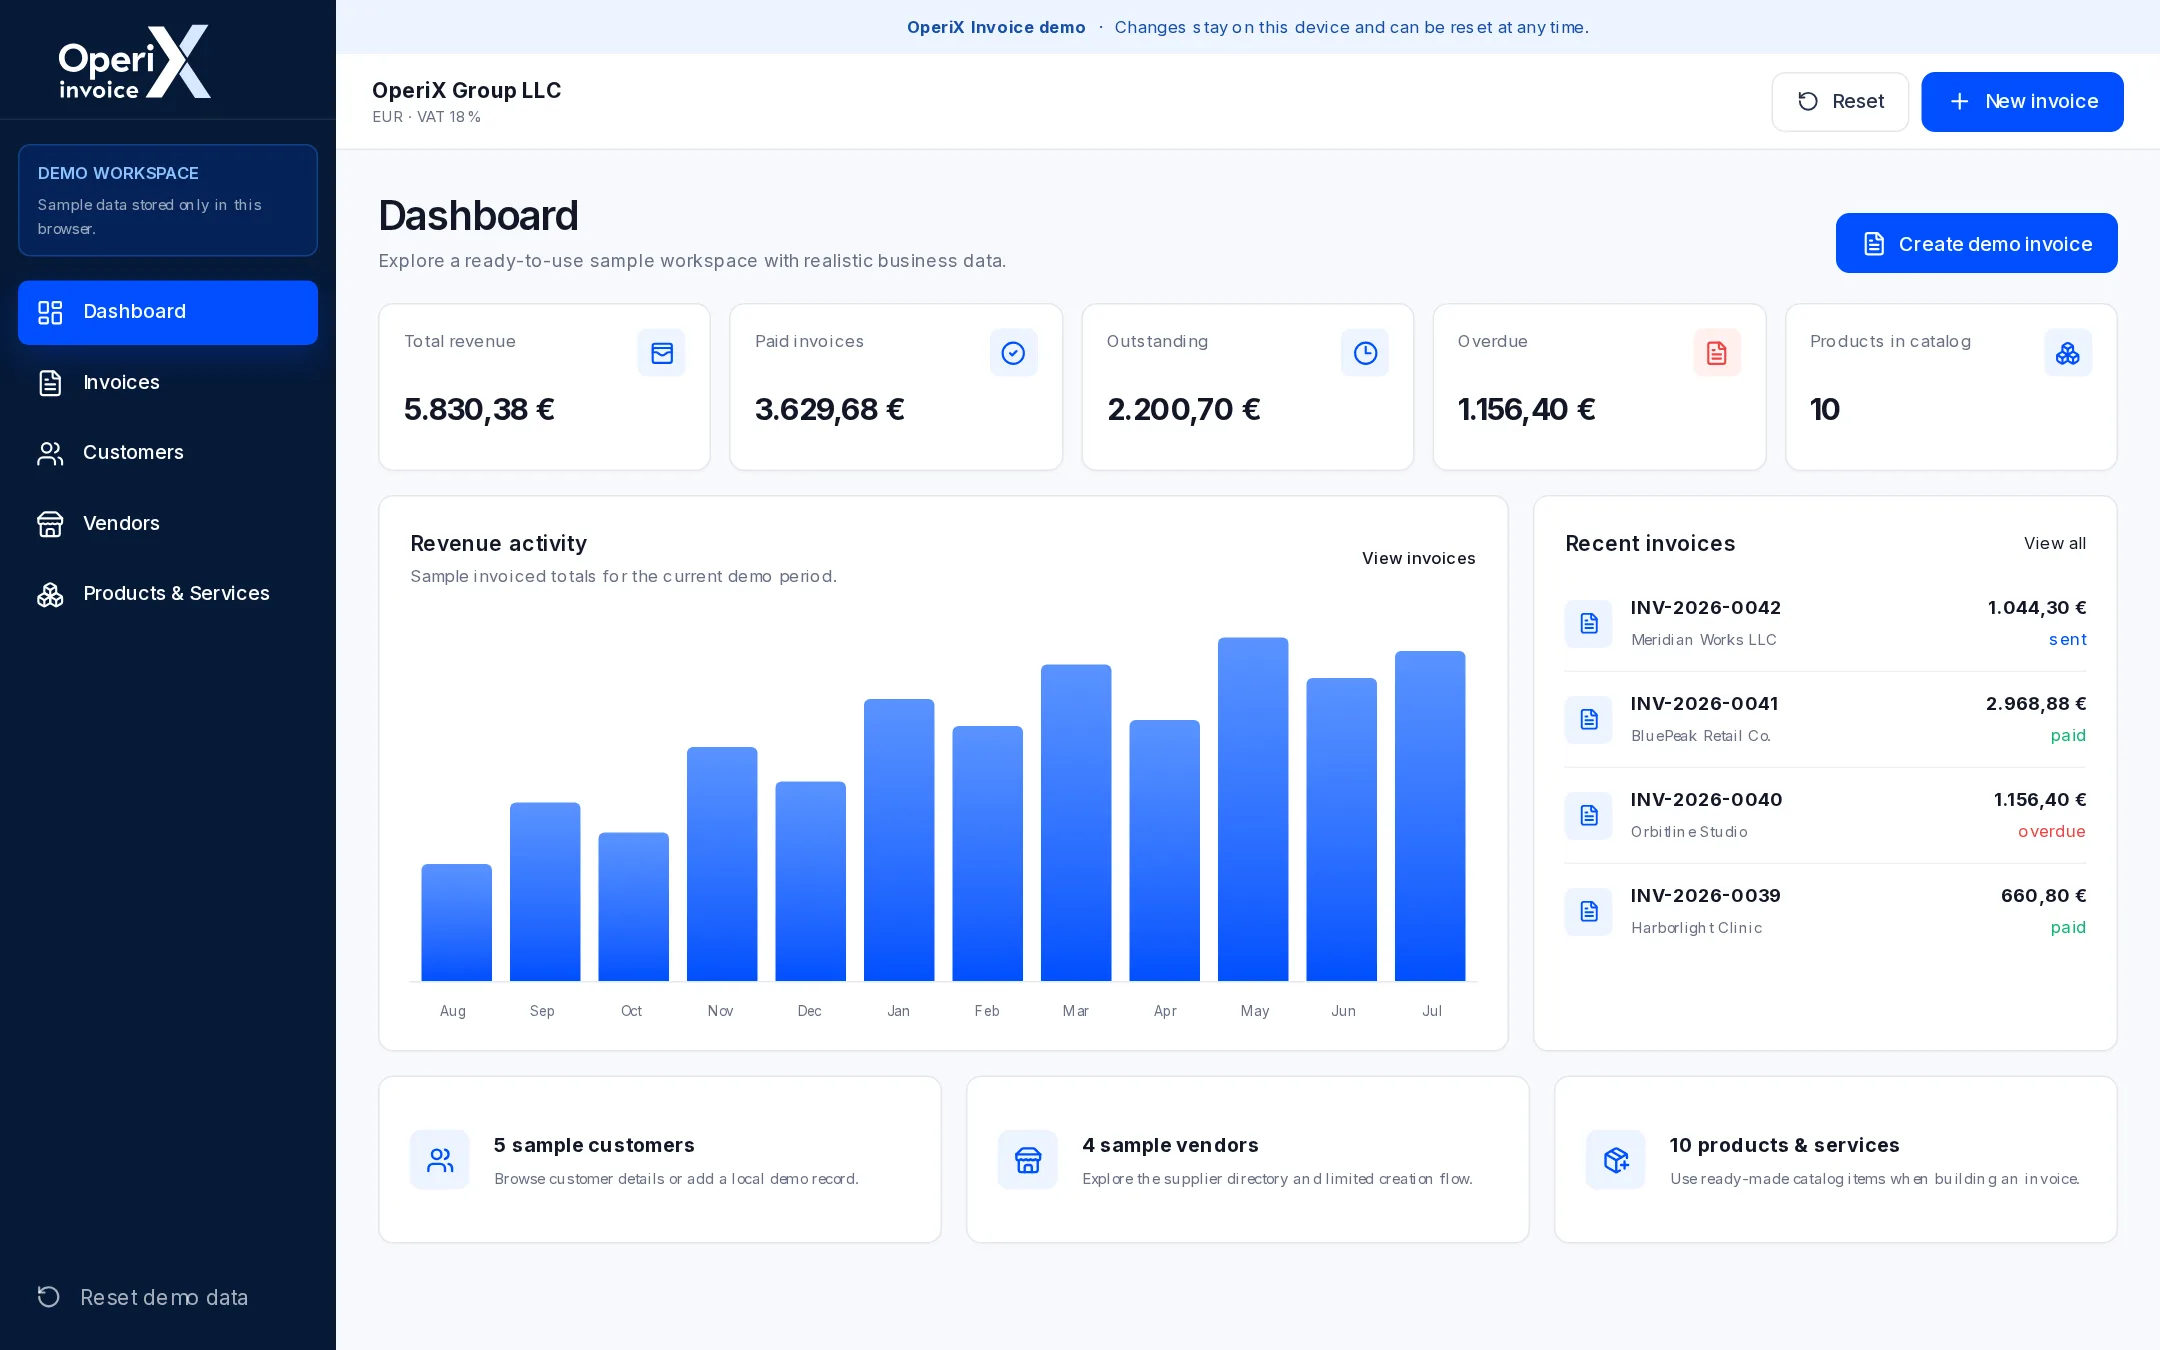
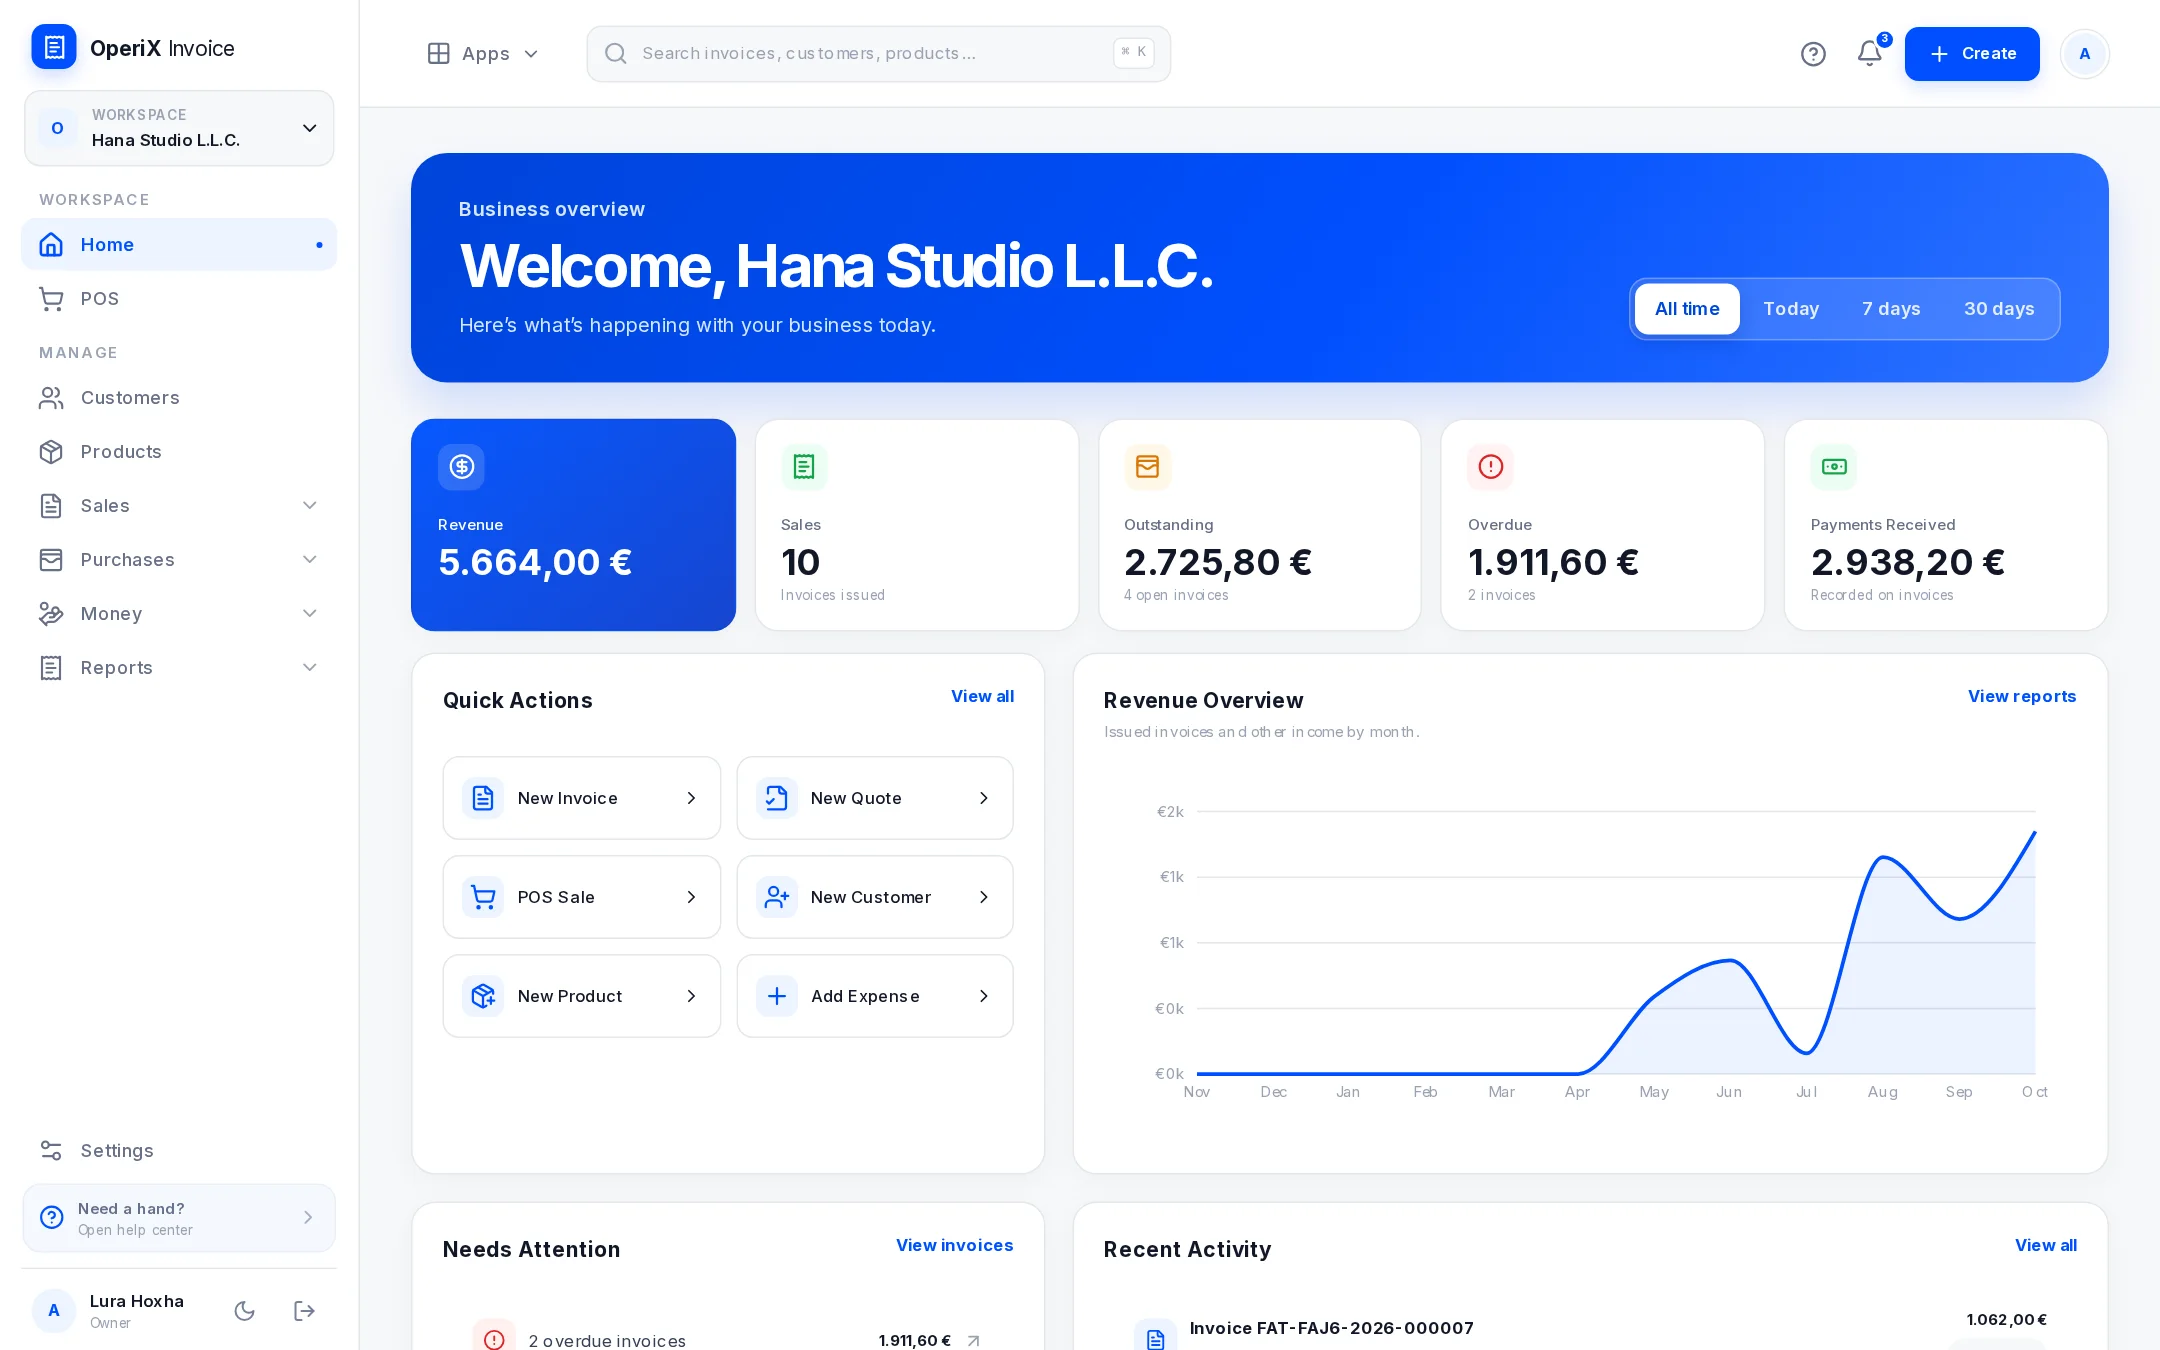
Suite: use screenshots of the production app, remove demo links
- Replace the demo screenshots with the real OperiX Invoice app (dashboard, invoice list, invoice detail)
- Remove the Try the live demo buttons and links now that the demo is retired
- Phone mockup uses the same sample data

Claude-Session: https://claude.ai/code/session_01GPv2KVxTpkWnaNaEobSKLD

diff --git a/apps/OperiX Suite/src/content/copy.ts b/apps/OperiX Suite/src/content/copy.ts
@@ -4,7 +4,6 @@ export const urls = {
   signup: process.env.NEXT_PUBLIC_OPERIX_GET_STARTED_URL ?? "https://invoice.operixsuite.com/signup",
   signIn: process.env.NEXT_PUBLIC_OPERIX_SIGN_IN_URL ?? "https://invoice.operixsuite.com/login",
   app: process.env.NEXT_PUBLIC_OPERIX_INVOICE_URL ?? "https://invoice.operixsuite.com",
-  demo: process.env.NEXT_PUBLIC_OPERIX_INVOICE_DEMO_URL ?? "https://demo.invoice.operixsuite.com",
   help: "https://helpdesk.operixsuite.com",
   email: "support@operixinvoice.com",
 };
@@ -73,7 +72,7 @@ export type Copy = {
     cards: { title: string; text: string; cta: string; href: string }[];
     form: { name: string; email: string; topic: string; topics: string[]; message: string; send: string; note: string; subject: string };
   };
-  footer: { tagline: string; product: string; company: string; legal: string; links: { invoice: string; booking: string; pricing: string; demo: string; help: string; contact: string; privacy: string; terms: string; signIn: string }; rights: string; made: string };
+  footer: { tagline: string; product: string; company: string; legal: string; links: { invoice: string; booking: string; pricing: string; help: string; contact: string; privacy: string; terms: string; signIn: string }; rights: string; made: string };
   legal: { updated: string; privacy: { title: string; sections: { h: string; p: string[] }[] }; terms: { title: string; sections: { h: string; p: string[] }[] }; review: string };
   notFound: { title: string; text: string; cta: string };
   suiteLine: string;
@@ -93,7 +92,7 @@ const en: Copy = {
       accent: "your whole business.",
       sub: "Create invoices, sell at the counter, track expenses and keep VAT and reports in order — in the browser or on your phone. Start free, with your data stored on your own device.",
       primary: "Start free",
-      secondary: "Try the live demo",
+      secondary: "See pricing",
       note: ["No credit card", "Works offline", "English & Shqip", "Euro & Kosovo VAT"],
     },
     products: {
@@ -192,7 +191,7 @@ const en: Copy = {
         { q: "Which languages are supported?", a: "The web app and this website are available in English and Albanian (Shqip). Each invoice can be issued in English, Albanian or Serbian." },
       ],
     },
-    cta: { title: "Ready to put your invoicing in order?", sub: "Start free in a few minutes. Upgrade to the cloud only when you need it.", primary: "Start free", secondary: "Try the live demo" },
+    cta: { title: "Ready to put your invoicing in order?", sub: "Start free in a few minutes. Upgrade to the cloud only when you need it.", primary: "Start free", secondary: "See pricing" },
   },
   invoice: {
     hero: {
@@ -200,7 +199,7 @@ const en: Copy = {
       title: "Everything you need to bill, sell and keep your books.",
       sub: "A complete invoicing and business finance workspace for the web and your phone — built for small and growing businesses.",
       primary: "Start free",
-      secondary: "Try the live demo",
+      secondary: "See pricing",
     },
     groups: [
       { icon: "file", title: "Sales documents", text: "Look professional and stay organised.", items: ["Invoices, quotes, proformas, sales orders and delivery notes", "Convert a quote into an invoice in one click", "Recurring invoices and payment reminders", "Automatic numbering, status tracking and PDF output", "Customer-facing templates with your logo, stamp and signature"] },
@@ -290,14 +289,13 @@ const en: Copy = {
     cards: [
       { title: "Help Center", text: "Guides and answers for getting set up and using OperiX.", cta: "Open the Help Center", href: urls.help },
       { title: "Email us", text: "Write to us about pricing, setup or anything else.", cta: urls.email, href: `mailto:${urls.email}` },
-      { title: "Try the demo", text: "Explore OperiX Invoice with sample data. No sign-up needed.", cta: "Open the demo", href: urls.demo },
     ],
     form: { name: "Your name", email: "Your email", topic: "Topic", topics: ["OperiX Invoice", "Pricing", "OperiX Booking", "Something else"], message: "How can we help?", send: "Send by email", note: "This opens your email app with your message ready to send.", subject: "OperiX enquiry" },
   },
   footer: {
     tagline: "Invoicing and business finance for growing businesses.",
     product: "Product", company: "Company", legal: "Legal",
-    links: { invoice: "OperiX Invoice", booking: "OperiX Booking", pricing: "Pricing", demo: "Live demo", help: "Help Center", contact: "Contact", privacy: "Privacy", terms: "Terms", signIn: "Sign in" },
+    links: { invoice: "OperiX Invoice", booking: "OperiX Booking", pricing: "Pricing", help: "Help Center", contact: "Contact", privacy: "Privacy", terms: "Terms", signIn: "Sign in" },
     rights: "All rights reserved.", made: "Made in Kosovo",
   },
   legal: {
@@ -345,7 +343,7 @@ const sq: Copy = {
       accent: "gjithë biznesin tuaj.",
       sub: "Krijoni fatura, shitni në banak, ndiqni shpenzimet dhe mbani TVSH-në e raportet në rregull — në shfletues ose në telefon. Filloni falas, me të dhënat e ruajtura në pajisjen tuaj.",
       primary: "Filloni falas",
-      secondary: "Provoni demon",
+      secondary: "Shihni çmimet",
       note: ["Pa kartë krediti", "Punon pa internet", "Shqip dhe anglisht", "Euro dhe TVSH e Kosovës"],
     },
     products: {
@@ -444,7 +442,7 @@ const sq: Copy = {
         { q: "Cilat gjuhë mbështeten?", a: "Aplikacioni web dhe kjo faqe janë në shqip dhe anglisht. Çdo faturë mund të lëshohet në shqip, anglisht ose serbisht." },
       ],
     },
-    cta: { title: "Gati ta rregulloni faturimin?", sub: "Filloni falas për disa minuta. Kaloni në cloud vetëm kur ju duhet.", primary: "Filloni falas", secondary: "Provoni demon" },
+    cta: { title: "Gati ta rregulloni faturimin?", sub: "Filloni falas për disa minuta. Kaloni në cloud vetëm kur ju duhet.", primary: "Filloni falas", secondary: "Shihni çmimet" },
   },
   invoice: {
     hero: {
@@ -452,7 +450,7 @@ const sq: Copy = {
       title: "Gjithçka që ju duhet për të faturuar, shitur dhe mbajtur librat.",
       sub: "Hapësirë e plotë pune për faturim dhe financa të biznesit, për web dhe telefon — e krijuar për biznese të vogla dhe në rritje.",
       primary: "Filloni falas",
-      secondary: "Provoni demon",
+      secondary: "Shihni çmimet",
     },
     groups: [
       { icon: "file", title: "Dokumente shitjeje", text: "Dukuni profesionalë dhe qëndroni të organizuar.", items: ["Fatura, oferta, proformë, porosi shitjeje dhe fletëdërgesa", "Shndërroni një ofertë në faturë me një klik", "Fatura periodike dhe kujtesa pagese", "Numërim automatik, ndjekje statusi dhe PDF", "Shabllone me logon, vulën dhe nënshkrimin tuaj"] },
@@ -542,14 +540,13 @@ const sq: Copy = {
     cards: [
       { title: "Qendra e ndihmës", text: "Udhëzime dhe përgjigje për konfigurimin dhe përdorimin e OperiX.", cta: "Hapni qendrën e ndihmës", href: urls.help },
       { title: "Shkruani në email", text: "Na shkruani për çmimet, konfigurimin ose çdo gjë tjetër.", cta: urls.email, href: `mailto:${urls.email}` },
-      { title: "Provoni demon", text: "Eksploroni OperiX Invoice me të dhëna shembull. Pa regjistrim.", cta: "Hapni demon", href: urls.demo },
     ],
     form: { name: "Emri juaj", email: "Email-i juaj", topic: "Tema", topics: ["OperiX Invoice", "Çmimet", "OperiX Booking", "Diçka tjetër"], message: "Si mund t'ju ndihmojmë?", send: "Dërgo me email", note: "Kjo hap aplikacionin tuaj të email-it me mesazhin gati për dërgim.", subject: "Pyetje për OperiX" },
   },
   footer: {
     tagline: "Faturim dhe financa për biznese në rritje.",
     product: "Produkti", company: "Kompania", legal: "Ligjore",
-    links: { invoice: "OperiX Invoice", booking: "OperiX Booking", pricing: "Çmimet", demo: "Demo", help: "Qendra e ndihmës", contact: "Kontakti", privacy: "Privatësia", terms: "Kushtet", signIn: "Hyni" },
+    links: { invoice: "OperiX Invoice", booking: "OperiX Booking", pricing: "Çmimet", help: "Qendra e ndihmës", contact: "Kontakti", privacy: "Privatësia", terms: "Kushtet", signIn: "Hyni" },
     rights: "Të gjitha të drejtat e rezervuara.", made: "Bërë në Kosovë",
   },
   legal: {

diff --git a/apps/OperiX Suite/src/components/invoice-page.tsx b/apps/OperiX Suite/src/components/invoice-page.tsx
@@ -1,5 +1,6 @@
+import Link from "next/link";
 import { Check } from "lucide-react";
-import { getCopy, urls, type Lang } from "@/content/copy";
+import { getCopy, href, urls, type Lang } from "@/content/copy";
 import { Icon } from "./icons";
 import { BrowserFrame } from "./mockups";
 import { Reveal } from "./reveal";
@@ -14,9 +15,9 @@ export function InvoicePage({ lang }: { lang: Lang }) {
           <span className="eyebrow"><span className="dot" />{p.hero.eyebrow}</span>
           <h1>{p.hero.title}</h1>
           <p className="lead">{p.hero.sub}</p>
-          <div className="button-row"><a className="button button-lg" href={urls.signup}>{p.hero.primary}</a><a className="button button-lg button-secondary" href={urls.demo}>{p.hero.secondary}</a></div>
+          <div className="button-row"><a className="button button-lg" href={urls.signup}>{p.hero.primary}</a><Link className="button button-lg button-secondary" href={href(lang, "/pricing")}>{p.hero.secondary}</Link></div>
         </div>
-        <BrowserFrame src="/shots/customers.webp" alt={lang === "sq" ? "Lista e klientëve në OperiX Invoice" : "The customer list in OperiX Invoice"} priority />
+        <BrowserFrame src="/shots/invoice-detail.webp" alt={lang === "sq" ? "Një faturë në OperiX Invoice me përmbledhje dhe pamje paraprake të dokumentit" : "An invoice in OperiX Invoice with its summary and document preview"} priority />
       </div>
     </section>
     <section className="section">
@@ -37,7 +38,7 @@ export function InvoicePage({ lang }: { lang: Lang }) {
     <section className="cta-band">
       <div className="container cta-inner">
         <h2>{t.home.cta.title}</h2><p>{t.home.cta.sub}</p>
-        <div className="button-row button-row-center"><a className="button button-light button-lg" href={urls.signup}>{t.home.cta.primary}</a><a className="button button-outline-light button-lg" href={urls.demo}>{t.home.cta.secondary}</a></div>
+        <div className="button-row button-row-center"><a className="button button-light button-lg" href={urls.signup}>{t.home.cta.primary}</a><Link className="button button-outline-light button-lg" href={href(lang, "/pricing")}>{t.home.cta.secondary}</Link></div>
       </div>
     </section>
   </>;

diff --git a/apps/OperiX Suite/src/components/mockups.tsx b/apps/OperiX Suite/src/components/mockups.tsx
@@ -25,8 +25,8 @@ export function PhoneMock({ lang, variant = "invoices", className = "" }: { lang
       <div className="phone-top"><Menu size={16} /><strong>{variant === "pos" ? "POS" : t.title}</strong><span className="phone-avatar">O</span></div>
       {variant === "invoices" ? <>
         <div className="phone-search"><Search size={13} />{t.search}</div>
-        <div className="phone-stat"><span>{t.outstanding}</span><strong>€3,357.10</strong></div>
-        {[["Meridian Works", "€1,044.30", t.sent, "blue"], ["BluePeak Retail", "€2,968.88", t.paid, "green"], ["Orbitline Studio", "€1,156.40", t.overdue, "red"], ["Harborlight Clinic", "€660.80", t.paid, "green"]].map(([name, amount, status, tone]) => <div className="phone-row" key={name}><div><b>{name}</b><small>INV-2026-00{name.length + 20}</small></div><div><b>{amount}</b><i className={`tone-${tone}`}>{status}</i></div></div>)}
+        <div className="phone-stat"><span>{t.outstanding}</span><strong>€2,725.80</strong></div>
+        {[["Kosova Fresh Market", "€531.00", t.sent, "blue", "FAT-2026-000010"], ["Mira Design Studio", "€283.20", t.sent, "blue", "FAT-2026-000009"], ["Alba Logistics", "€849.60", t.sent, "blue", "FAT-2026-000008"], ["Kosova Fresh Market", "€1,062.00", t.paid, "green", "FAT-2026-000006"]].map(([name, amount, status, tone, number]) => <div className="phone-row" key={number}><div><b>{name}</b><small>{number}</small></div><div><b>{amount}</b><i className={`tone-${tone}`}>{status}</i></div></div>)}
       </> : <>
         <div className="phone-cart-title">{t.cart}</div>
         {[[t.item1, "1 × €45.00", "€45.00"], [t.item2, "2 × €4.50", "€9.00"], [t.item3, "1 × €3.00", "€3.00"]].map(([name, qty, amount]) => <div className="phone-row" key={name}><div><b>{name}</b><small>{qty}</small></div><div><b>{amount}</b></div></div>)}

diff --git a/apps/OperiX Suite/src/components/home-page.tsx b/apps/OperiX Suite/src/components/home-page.tsx
@@ -19,7 +19,7 @@ export function HomePage({ lang }: { lang: Lang }) {
           <p className="lead">{h.hero.sub}</p>
           <div className="button-row">
             <a className="button button-lg" href={urls.signup}>{h.hero.primary} <ArrowRight size={18} /></a>
-            <a className="button button-lg button-secondary" href={urls.demo}>{h.hero.secondary}</a>
+            <Link className="button button-lg button-secondary" href={href(lang, "/pricing")}>{h.hero.secondary}</Link>
           </div>
           <ul className="hero-notes">{h.hero.note.map((item) => <li key={item}><Check size={15} />{item}</li>)}</ul>
         </div>
@@ -136,7 +136,7 @@ export function HomePage({ lang }: { lang: Lang }) {
     <section className="cta-band">
       <div className="container cta-inner">
         <h2>{h.cta.title}</h2><p>{h.cta.sub}</p>
-        <div className="button-row button-row-center"><a className="button button-light button-lg" href={urls.signup}>{h.cta.primary}</a><a className="button button-outline-light button-lg" href={urls.demo}>{h.cta.secondary}</a></div>
+        <div className="button-row button-row-center"><a className="button button-light button-lg" href={urls.signup}>{h.cta.primary}</a><Link className="button button-outline-light button-lg" href={href(lang, "/pricing")}>{h.cta.secondary}</Link></div>
       </div>
     </section>
     <script type="application/ld+json" dangerouslySetInnerHTML={{ __html: faqSchema(h.faq.items) }} />

diff --git a/apps/OperiX Suite/src/components/contact-page.tsx b/apps/OperiX Suite/src/components/contact-page.tsx
@@ -1,10 +1,10 @@
-import { BookOpen, Mail, MonitorPlay } from "lucide-react";
+import { BookOpen, Mail } from "lucide-react";
 import { getCopy, type Lang } from "@/content/copy";
 import { ContactForm } from "./contact-form";
 
 export function ContactPage({ lang }: { lang: Lang }) {
   const c = getCopy(lang).contact;
-  const icons = [BookOpen, Mail, MonitorPlay];
+  const icons = [BookOpen, Mail];
   return <>
     <section className="page-hero"><div className="container center"><h1>{c.hero.title}</h1><p className="lead lead-center">{c.hero.sub}</p></div></section>
     <section className="section">

diff --git a/apps/OperiX Suite/src/components/site-footer.tsx b/apps/OperiX Suite/src/components/site-footer.tsx
@@ -22,7 +22,6 @@ export function SiteFooter() {
           <li><Link href={href(lang, "/invoice")}>{l.invoice}</Link></li>
           <li><Link href={href(lang, "/booking")}>{l.booking} <span className="pill pill-soon pill-dark">{t.comingSoon}</span></Link></li>
           <li><Link href={href(lang, "/pricing")}>{l.pricing}</Link></li>
-          <li><a href={urls.demo}>{l.demo}</a></li>
         </ul>
       </div>
       <div>
